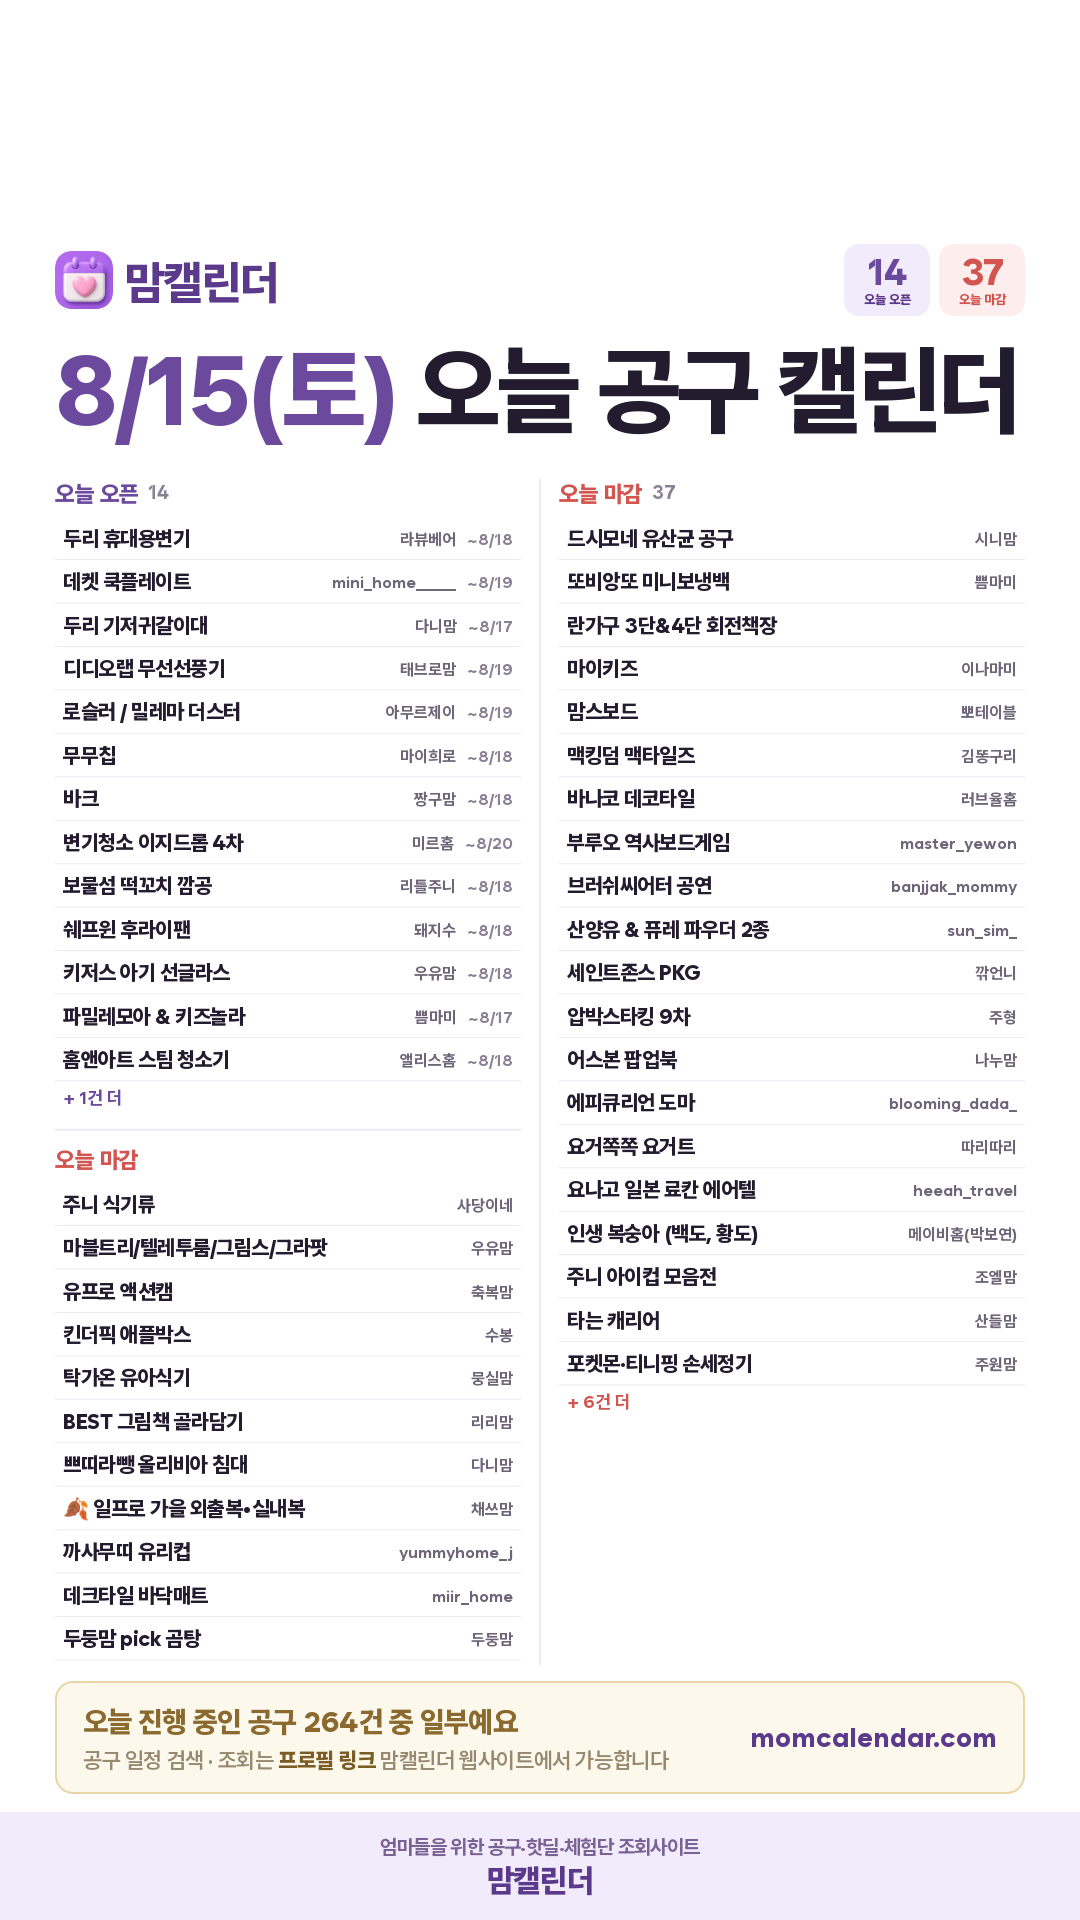
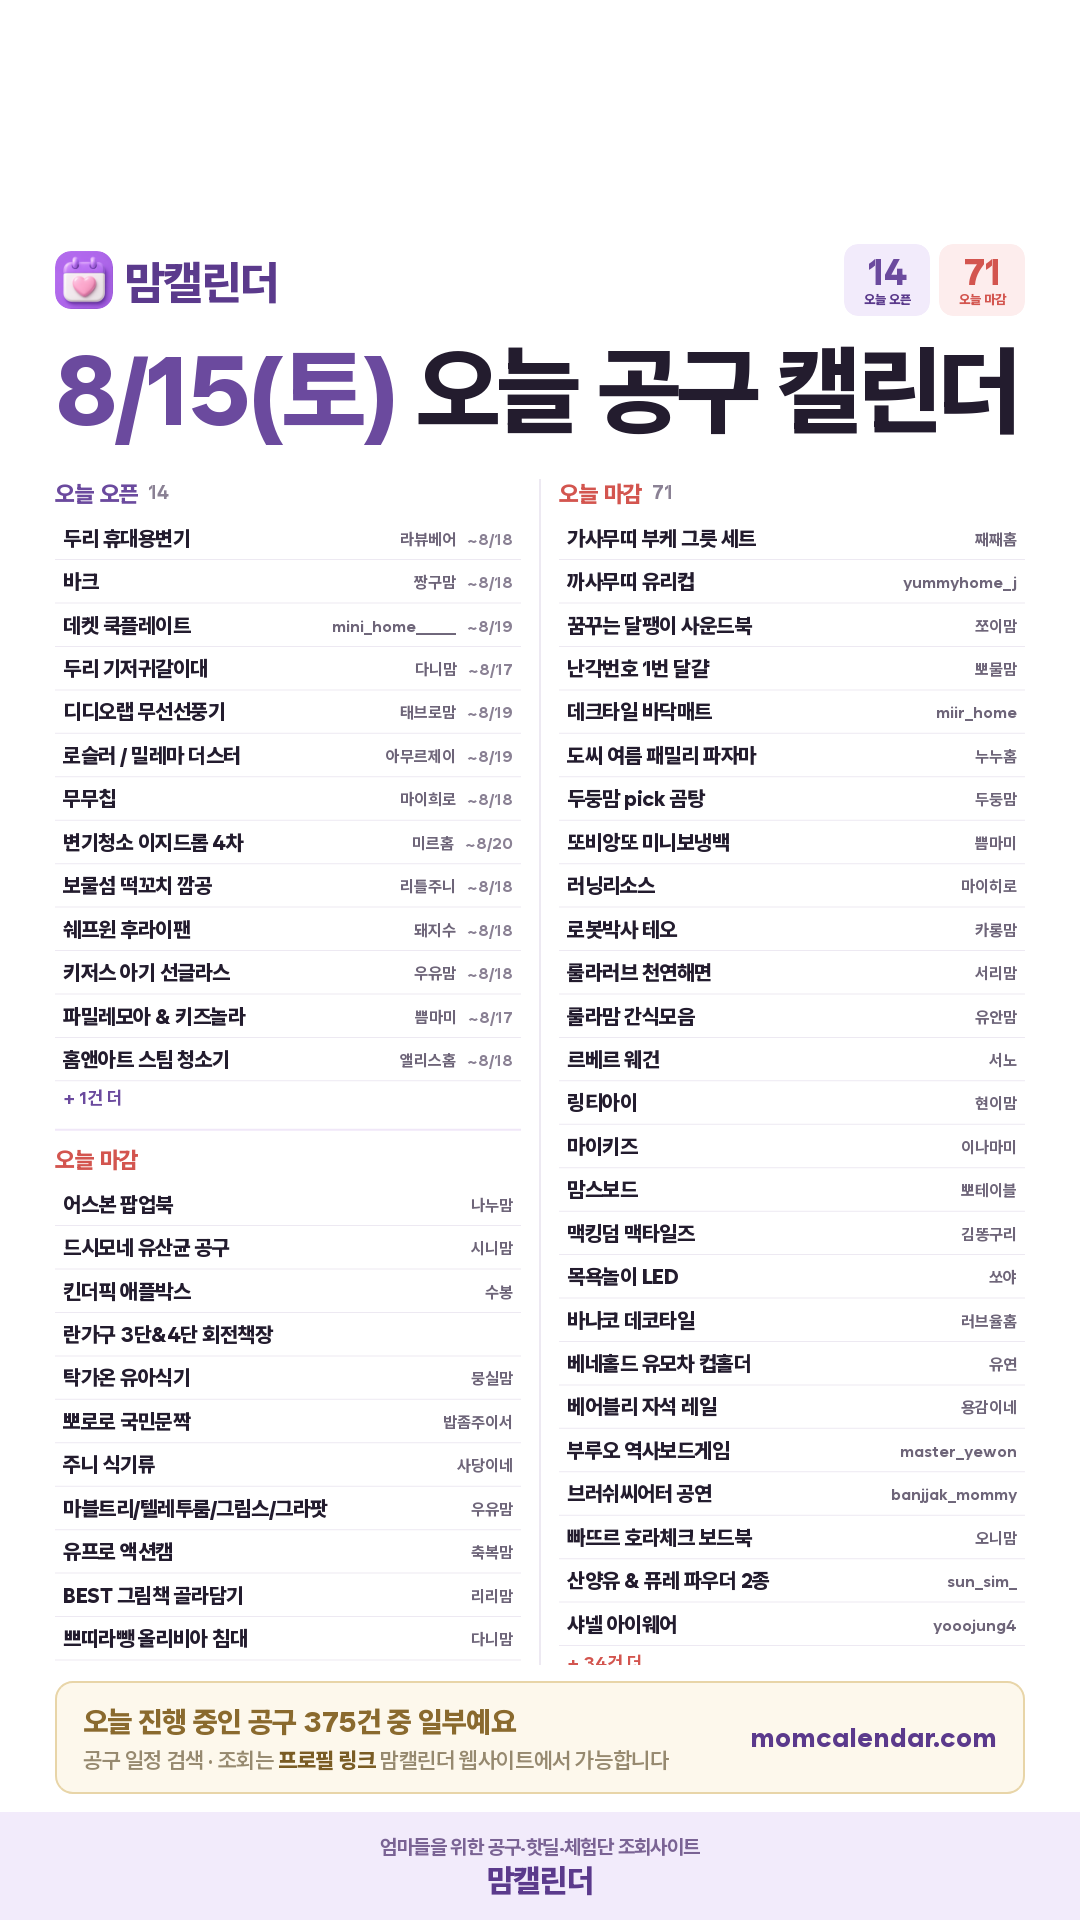
아침 인스타 카드 (2026-08-15)

diff --git a/daily/2026-08-15.html b/daily/2026-08-15.html
@@ -19,7 +19,7 @@ textarea{width:100%;height:260px;border:1px solid #E3DCEF;border-radius:10px;pad
 .todo p{font-size:12.5px;color:#6B6379;line-height:1.75;margin-top:6px}
 .todo a{color:#5B2E8C;font-weight:700}
 </style></head><body>
-<div class="hd"><div class="wrap"><h1>8월 15일(토) 인스타 카드</h1><p>오픈 14건 · 마감 37건</p></div></div>
+<div class="hd"><div class="wrap"><h1>8월 15일(토) 인스타 카드</h1><p>오픈 14건 · 마감 71건</p></div></div>
 <div class="wrap">
   <div class="todo"><b>사장님 확인 부탁드려요 · 링크프라이스 · 오늘의집 제휴 신청 (각 5분)</b><p>핫딜을 우리 수익링크로 바꿀 수 있는 곳을 늘리는 일입니다.<br>
     ① <b>링크프라이스</b> 로그인 → 머천트 검색 → <b>오늘의집·SSG</b> 제휴 신청
@@ -36,18 +36,18 @@ textarea{width:100%;height:260px;border:1px solid #E3DCEF;border-radius:10px;pad
 맘캘린더에서 공유드리는
 8월 15일(토) 오늘 공구 캘린더
 
-오픈 13건 · 마감 31건
+오픈 13건 · 마감 57건
 
 ━━━━━━━━━━━━━━
 
 🔓 오늘 오픈하는 공구
 · 두리 휴대용변기 — 라뷰베어 (~8/18)
+· 바크 — 짱구맘 (~8/18)
 · 데켓 쿡플레이트 — mini_home_____ (~8/19)
 · 두리 기저귀갈이대 — 다니맘 (~8/17)
 · 디디오랩 무선선풍기 — 태브로맘 (~8/19)
 · 로슬러 실링팬 / 밀레마 더스터 — 아무르제이 (~8/19)
 · 무무칩 — 마이희로 (~8/18)
-· 바크 — 짱구맘 (~8/18)
 · 변기청소 이지드롭 4차 — 미르홈 (~8/20)
 · 보물섬 떡꼬치 깜공(새로운 맛+) — 리틀주니 (~8/18)
 · 쉐프윈 올인원냄비·후라이팬 — 돼지수 (~8/18)
@@ -56,37 +56,63 @@ textarea{width:100%;height:260px;border:1px solid #E3DCEF;border-radius:10px;pad
 · 홈앤아트 스팀 청소기 — 앨리스홈 (~8/18)
 
 ⏰ 오늘 마감하는 공구
+· 어스본 팝업북 — 나누맘
+· 드시모네 유산균 공구 — 시니맘
+· 킨더픽 애플박스 — 수봉
+· 란가구 3단&amp;4단 회전책장 — 
+· 탁가온 유아식기 — 뭉실맘
+· 뽀로로 국민문짝 — 밥좀주이서
 · 주니 식기류 — 사당이네
 · 발도르프 마블트리/텔레투룸/그림스/그라팟 — 우유맘
 · 유프로 액션캠 — 축복맘
-· 킨더픽 애플박스 — 수봉
-· 탁가온 유아식기 — 뭉실맘
 · BEST 그림책 골라담기 — 리리맘
 · (최초공구) 쁘띠라뺑 올리비아 침대 — 다니맘
-· 🍂 일프로 가을 외출복•실내복 — 채쓰맘
+· 가사무띠 부케 그릇 세트 — 째째홈
 · 까사무띠 이중내열 유리컵 — yummyhome_j
+· 꿈꾸는 달팽이 사운드북 — 쪼이맘
+· 난각번호 1번 달걀 — 뽀물맘
 · 데크타일 바닥매트 — miir_home
+· 도씨 여름 패밀리 파자마 — 누누홈
 · 두둥맘 pick 곰탕 — 두둥맘
-· 드시모네 유산균 공구 — 시니맘
 · 또비앙또 미니보냉백 — 쁨마미
-· 란가구 3단&amp;4단 회전책장 — 
+· 러닝리소스 — 마이히로
+· 로봇박사 테오 — 카롱맘
+· 룰라러브 천연해면 — 서리맘
+· 룰라맘 간식모음 — 유안맘
+· 르베르 웨건 — 서노
+· 링티아이 — 현이맘
 · 마이키즈 — 이나마미
 · 맘스보드 — 뽀테이블
 · 맥킹덤 맥타일즈 — 김똥구리
+· 목욕놀이 LED — 쏘야
 · 바나코 데코타일 — 러브율홈
+· 베네홀드 유모차 컵홀더 — 유연
+· 베어블리 자석 레일 — 용감이네
 · 부루오 영어보드게임 + 역사보드게임 — master_yewon
 · 브러쉬씨어터 두들팝 공연 — banjjak_mommy
+· 빠뜨르 호라체크 보드북 — 오니맘
 · 산양유 &amp; 퓨레 파우더 2종 — sun_sim_
+· 샤넬 아이웨어 — yooojung4
 · 세인트존스 강릉 라스트썸머&amp;얼리버드 PKG — 깎언니
+· 아빠차트 — 니니맘
+· 알파베베 유령빕 — 하짱네
 · 압박스타킹 9차 — 주형
-· 어스본 팝업북 — 나누맘
-· 에피큐리언 마스터쉐프 도마 — blooming_dada_
+· 여름속옷 브라+팬티 — yoiunni
+· 여수청년 저당 굴소스 — 예지홈
 · 요거쪽쪽 요거트 — 따리따리
 · 요나고 일본 료칸 에어텔 — heeah_travel
+· 이지앤프리 이유식 보관용기 — 토코맘
 · 인생 복숭아 (백도, 황도) — 메이비홈(박보연)
+· 일프로 가을 외출복•실내복 — 채쓰맘
+· 주니 뻬리곰 빨대컵 — 뮤즈마켓
 · 주니 아이컵 모음전 — 조엘맘
+· 키즈LP토토 — 지후맘
 · 타는 캐리어 — 산들맘
+· 타코 가위 &amp; 몬테소리 워크북 — 츄야맘
+· 티핑이 자석놀이 5종 — 쓰리빈즈
 · 포켓몬·티니핑 손세정기 — 주원맘
+· 하이퍼오라샷 — 콩콩맘
+· 휴먼어린이 나의 첫 역사책 — yujunmom0628
 
 ━━━━━━━━━━━━━━
 
@@ -99,7 +125,7 @@ textarea{width:100%;height:260px;border:1px solid #E3DCEF;border-radius:10px;pad
 ⚠ 공구 일정은 판매자 사정에 따라 변경되거나 조기 마감될 수 있어요. 구매 전에 해당 셀러 계정에서 한 번 더 확인해 주세요.
 
 #맘캘린더 #공구일정 #육아공구 #육아용품 #책육아 #육아맘 #맘스타그램 #공동구매 #육아정보 #공구정보 #육아템 #먹거리공구</textarea>
-    <div class="meta">1475자 / 2200자 · 오픈 13/13 · 마감 31/31</div>
+    <div class="meta">1957자 / 2200자 · 오픈 13/13 · 마감 57/57</div>
     <button class="btn btn2" onclick="cp('cap','캡션')">캡션 복사</button>
   </div>
   <div class="card">
@@ -118,7 +144,7 @@ textarea{width:100%;height:260px;border:1px solid #E3DCEF;border-radius:10px;pad
 ─────────────
 
 8월 15일(토), 오늘 새로 오픈하는 인스타 공구일정 15건을 카테고리별로 정리했어요.
-오늘 마감되는 공구도 37건 있으니 놓치지 마세요.
+오늘 마감되는 공구도 71건 있으니 놓치지 마세요.
 
 (여기에 저장해 두신 카드 사진을 넣어주세요)
 
@@ -147,44 +173,83 @@ textarea{width:100%;height:260px;border:1px solid #E3DCEF;border-radius:10px;pad
 · 디디오랩 무선선풍기 — 태브로맘 (~8/19 마감)
 · 홈앤아트 스팀 청소기 — 앨리스홈 (~8/18 마감)
 
-■ 오늘 마감하는 공구 37건
+■ 오늘 마감하는 공구 71건
 · (최초공구) 쁘띠라뺑 올리비아 침대 — 다니맘
-· 🍂 일프로 가을 외출복•실내복 — 채쓰맘
 · BEST 그림책 골라담기 — 리리맘
+· 가사무띠 부케 그릇 세트 — 째째홈
 · 국민홈캠 헤이홈 (2차) — 다니맘
+· 까사무띠 부케 그릇 세트 — 째째홈
 · 까사무띠 이중내열 유리컵 — yummyhome_j
+· 꿈꾸는 달팽이 사운드북 — 쪼이맘
+· 난각번호 1번 달걀 — 뽀물맘
 · 데크타일 바닥매트 — miir_home
+· 도씨 여름 패밀리 파자마 — 누누홈
 · 두둥맘 pick 곰탕 — 두둥맘
 · 드시모네 유산균 공구 — 시니맘
 · 또비앙또 미니보냉백 — 쁨마미
 · 란가구 3단&amp;4단 회전책장 — 
 · 래디어스 유아칫솔 — 뭉실맘
+· 러닝리소스 — 마이히로
+· 러닝리소스 드릴 외 — 룰루맘
+· 로봇박사 테오 — 카롱맘
+· 룰라러브 천연해면 — 서리맘
+· 룰라맘 간식모음 — 유안맘
+· 르베르 웨건 — 서노
+· 링티아이 — 현이맘
+· 마이비디 그림책 — 쮸떠맘
 · 마이키즈 — 이나마미
 · 맘스보드 — 뽀테이블
 · 맥킹덤 맥타일즈 — 김똥구리
+· 목욕놀이 LED — 쏘야
+· 미니 깜찍팝업북 — 산콩맘
 · 미술도구 세일전 — 뭉실맘
 · 바나코 데코타일 — 러브율홈
 · 발도르프 마블트리/텔레투룸/그림스/그라팟 — 우유맘
+· 베네홀드 유모차 컵홀더 — 유연
+· 베어블리 자석 레일 — 용감이네
 · 부루오 영어보드게임 + 역사보드게임 — master_yewon
 · 브러쉬씨어터 두들팝 공연 — banjjak_mommy
+· 빠뜨르 호라체크 보드북 — 오니맘
+· 뽀로로 국민문짝 — 밥좀주이서
 · 산양유 &amp; 퓨레 파우더 2종 — sun_sim_
+· 샤넬 아이웨어 — yooojung4
 · 세인트존스 강릉 라스트썸머&amp;얼리버드 PKG — 깎언니
+· 아빠차트 — 니니맘
+· 알파베베 유령빕 — 하짱네
 · 압박스타킹 9차 — 주형
 · 어스본 팝업북 — 나누맘
-· 에피큐리언 마스터쉐프 도마 — blooming_dada_
+· 여름속옷 브라+팬티 — yoiunni
+· 여수청년 저당 굴소스 — 예지홈
 · 요거쪽쪽 요거트 — 따리따리
 · 요나고 일본 료칸 에어텔 — heeah_travel
 · 유기농요거트 &amp; 어린이 수제 그래놀라 — 라엘맘(김예진)
 · 유프로 액션캠 — 축복맘
+· 이지앤프리 이유식 보관용기 — 토코맘
 · 인생 복숭아 (백도, 황도) — 메이비홈(박보연)
+· 일프로 가을 외출복•실내복 — 채쓰맘
+· 주니 뻬리곰 빨대컵 — 뮤즈마켓
+· 주니 뻬리곰빵대컵 — 뮤즈마켓
 · 주니 식기류 — 사당이네
 · 주니 아이컵 모음전 — 조엘맘
+· 주니 이유식기 — 미국이맘
+· 키즈LP토토 — 지후맘
+· 킨더잭 애플박스 — 수봉
 · 킨더픽 애플박스 — 수봉
 · 타는 캐리어 — 산들맘
+· 타코 가위 &amp; 몬테소리 워크북 — 츄야맘
 · 탁가온 유아식기 — 뭉실맘
+· 티핑이 자석놀이 5종 — 쓰리빈즈
 · 포켓몬·티니핑 손세정기 — 주원맘
+· 하이퍼오라샷 — 콩콩맘
 · 하코야 나이프 — 러브율홈
+· 헤이홈 카메라 — 다니맘
 · 훈민 캥거루 자연주머니 동물책 — 우유맘
+· 휴먼어린이 나의 첫 역사책 — yujunmom0628
+
+■ 오늘의 브랜드: 디디오랩
+· 디디오랩 공구는 인스타 셀러들이 기간을 정해 여는 공동구매예요. 최근에는 축복맘, 태브로맘, 로로맘 님이 진행했어요.
+· 가격은 오픈일에 셀러 계정 공지로 공개돼요. 같은 제품이라도 셀러·구성에 따라 조금씩 달라서, 공지에서 확인하는 게 가장 정확해요.
+· 이번에 놓쳤다면 너무 아쉬워하지 마세요. 디디오랩 공구는 보통 일정 간격을 두고 다시 열려요. 전체 일정은 여기서 → https://momcalendar.com/g/%EB%94%94%EB%94%94%EC%98%A4%EB%9E%A9.html
 
 ※ 공구 일정은 판매자 사정에 따라 변경되거나 조기 마감될 수 있어요. 구매 전에 해당 셀러 계정에서 한 번 더 확인해 주세요.
 

diff --git a/daily/index.html b/daily/index.html
@@ -1,1 +1,1 @@
-<!DOCTYPE html><meta charset="UTF-8"><meta http-equiv="refresh" content="0;url=./2026-08-14.html">
+<!DOCTYPE html><meta charset="UTF-8"><meta http-equiv="refresh" content="0;url=./2026-08-15.html">
